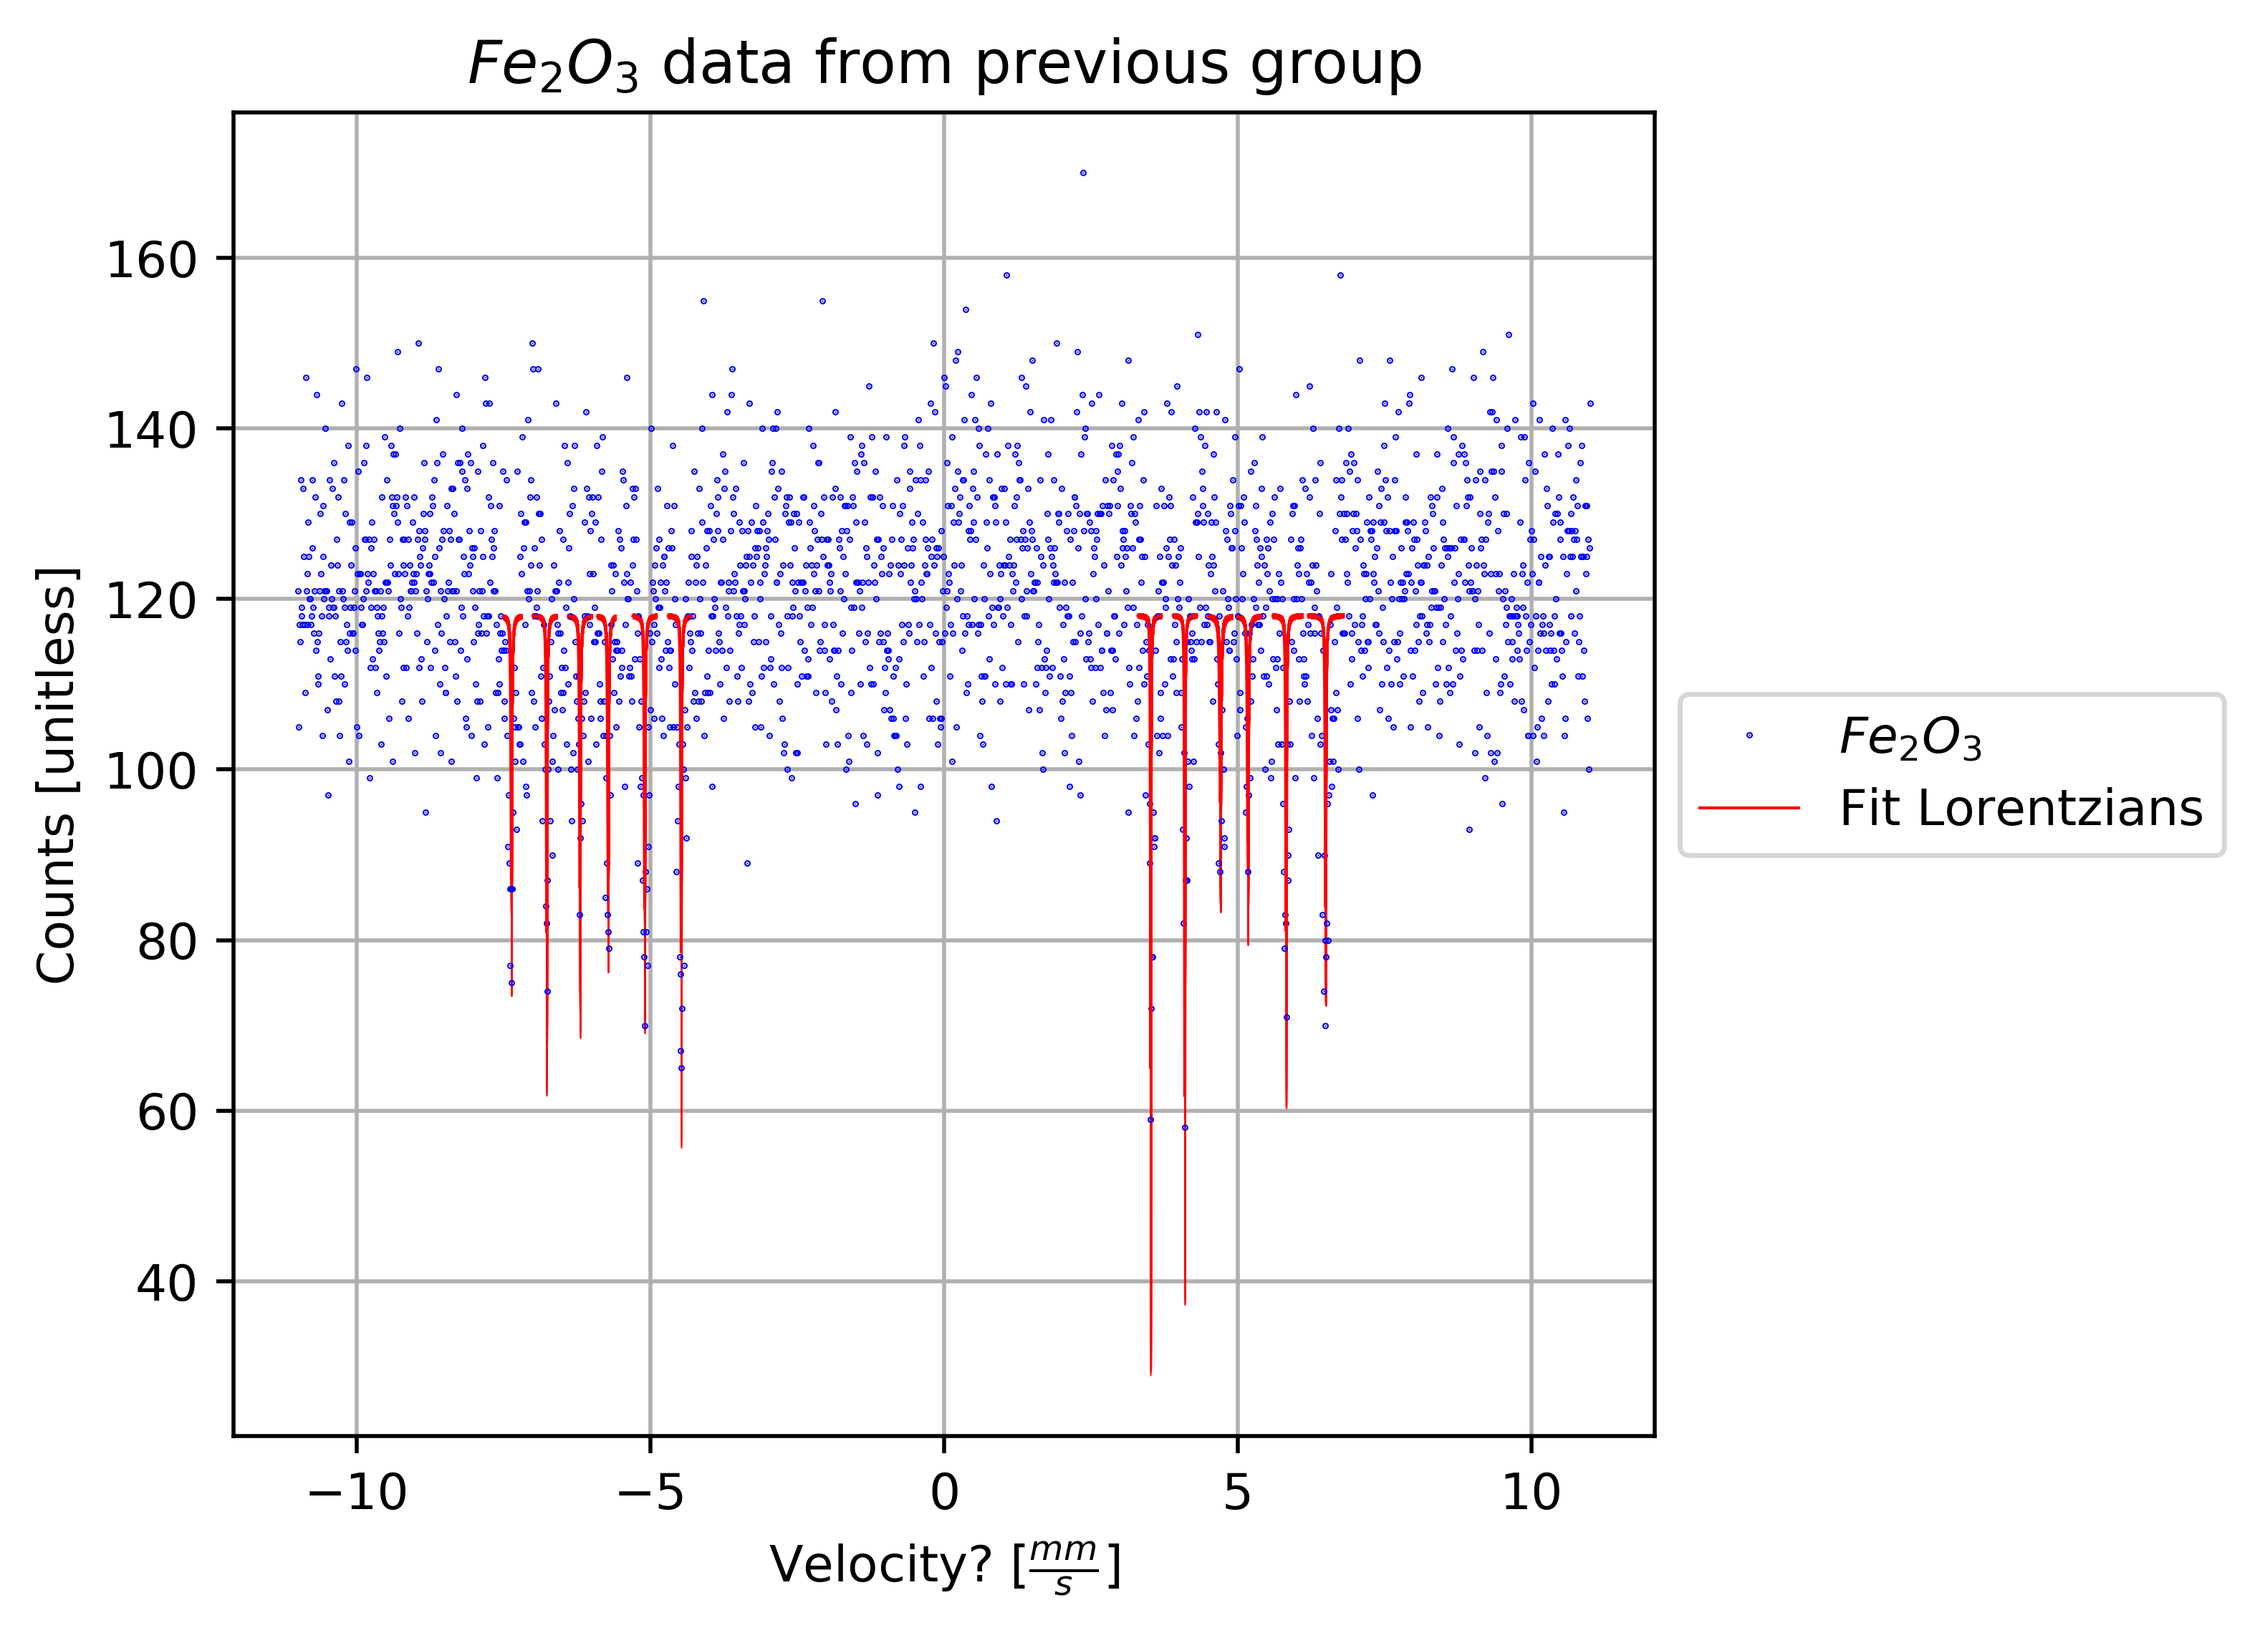
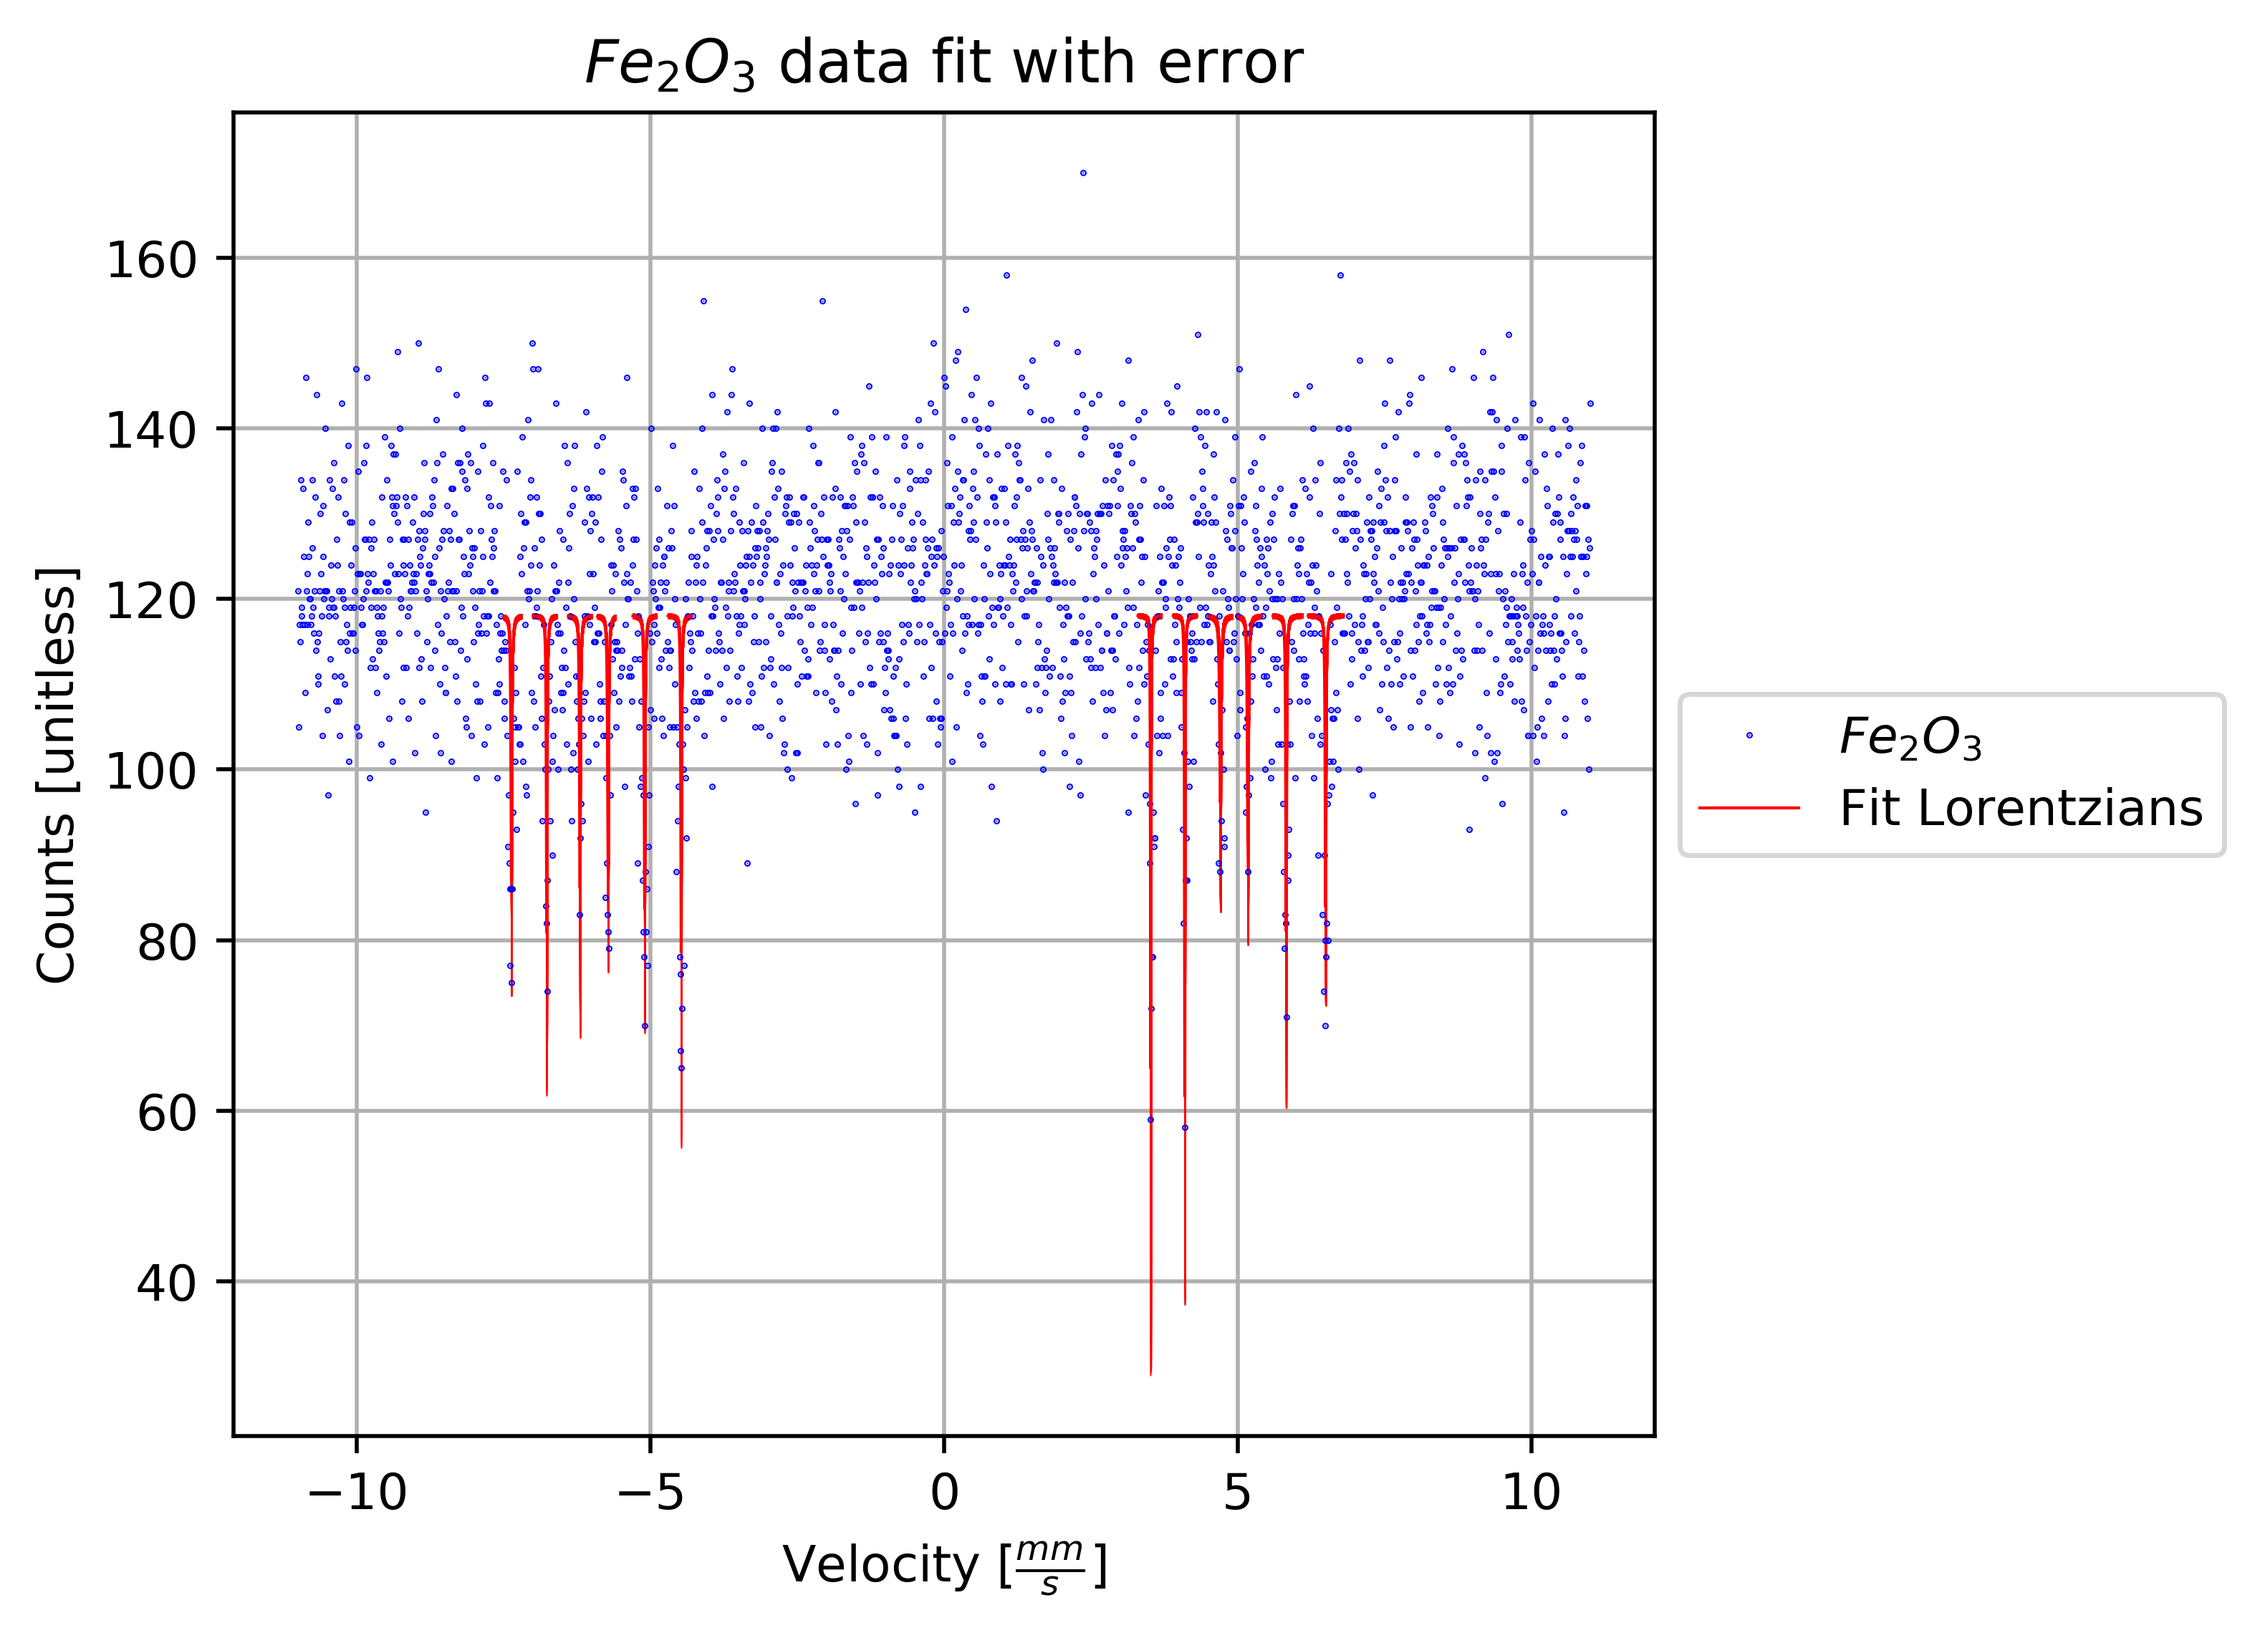
lifetime calculation

Changed region(s): [[0.2174, 0.0311, 0.6212, 0.0623], [0.3417, 0.9342, 0.497, 0.9965]]

diff --git a/MossbauerScript.py b/MossbauerScript.py
@@ -16,6 +16,7 @@ import matplotlib.pyplot as plt
 
 h = 6.62607015*10**(-34) #Js
 e = 1.602176634*10**(-19) #C
+hbar = 6.58*10**(-16) #eV s
 
 dataFolder = "./Data/"
 plotsFolder = "./Plots/"
@@ -205,6 +206,17 @@ for i in rel(cuts):
 	fitX, fitY, popt, pcov = fitOneLorentzian(xData, yData, yErr, cut=cuts[i])
 	fittingOutput.append([cuts[i], fitX, fitY, popt, pcov])
 
+# get the lifetime
+lifetimes = []
+for i in rel(fittingOutput):
+	cut, fitX, fitY, popt, pcov = fittingOutput[i]
+	d = ufloat(popt[1], m.sqrt(pcov[1][1]))
+	lifetime = (d*4.81*10**(-8)*3.14*hbar)/2
+	lifetimes.append(lifetime)
+
+print(avg(lifetimes)*10**9, "ns")
+
+
 # print results to file
 f = open(dataFolder+"fittingresults.dat","w+")
 header = "Lower Cut\tUpper Cut\tx0\td\ta\tCovariance Matrix(formatted row1 row2 row3)\n"
@@ -218,7 +230,7 @@ f.close()
 
 
 # plot data and fits
-rp.plotInit(xAx=r"Velocity? $[\frac{mm}{s}]$", yAx=r"Counts [unitless]",plotTitle=r"$Fe_2O_3$ data from previous group")
+rp.plotInit(xAx=r"Velocity $[\frac{mm}{s}]$", yAx=r"Counts [unitless]",plotTitle=r"$Fe_2O_3$ data fit with error")
 rp.plotData(xData, yData, 0, 0, dataLabel=r"$Fe_2O_3$", colour="Blue")
 for i in rel(fittingOutput):
 	cut, fitX, fitY, popt, pcov = fittingOutput[i]
@@ -240,7 +252,7 @@ else:
  	rp.plotOutput()
 
 # plot fits and their errors
-rp.plotInit(xAx=r"Velocity? $[\frac{mm}{s}]$", yAx=r"Counts [unitless]",plotTitle=r"$Fe_2O_3$ data from previous group")
+rp.plotInit(xAx=r"Velocity $[\frac{mm}{s}]$", yAx=r"Counts [unitless]",plotTitle=r"$Fe_2O_3$ data fit")
 rp.plotData(xData, yData, 0, 0, dataLabel=r"$Fe_2O_3$", colour="Blue")
 for i in rel(fittingOutput):
 	cut, fitX, fitY, popt, pcov = fittingOutput[i]
@@ -310,3 +322,4 @@ else:
 # fitParams.write("\\label{table:my_label} \n")
 # fitParams.write("\\end{table}")
 # fitParams.close()
+
